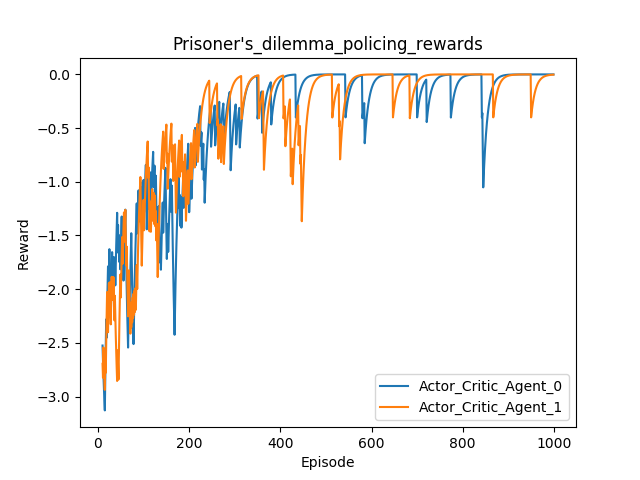
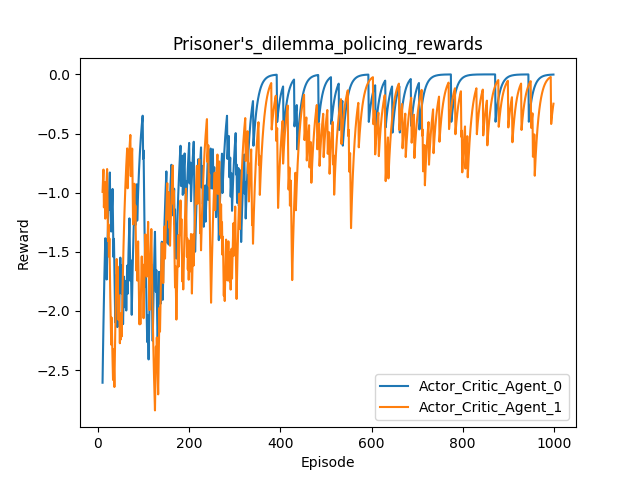
Implemented simple agent

diff --git a/Agents.py b/Agents.py
@@ -1,8 +1,9 @@
 import numpy as np
 import tensorflow as tf
 
-np.random.seed(2)
-tf.set_random_seed(2)
+RANDOM_SEED = 9
+np.random.seed(RANDOM_SEED)
+tf.set_random_seed(RANDOM_SEED)
 
 from enum import Enum, auto
 class Critic_Variant(Enum):
@@ -230,7 +231,6 @@ class Policing_Sub_Agent(Agent):
             # Gradients w.r.t. theta_1
             log_prob_pi = tf.log(policed_agent.get_action_prob_variable()[0,tf.cast(self.a_player,dtype = tf.int32)])
             theta = policed_agent.get_policy_parameters()
-            #theta_1 = tf.concat([tf.reshape(param,[-1]) for param in theta_1],0)
             g_log_prob = [tf.gradients(log_prob_pi,param) for param in theta]
             g_log_prob = tf.concat([tf.reshape(param,[-1]) for param in g_log_prob],0)
 
@@ -246,12 +246,9 @@ class Policing_Sub_Agent(Agent):
         self.sess.run(tf.global_variables_initializer())
 
     def learn(self, s, a_player):
-        #player_action_probs = self.agent_list[0].calc_action_probs(s)
         s = s[np.newaxis,:]
         feed_dict = {self.s: s, self.a_player: a_player, self.policed_agent.actor.s: s}
         self.sess.run([self.train_op], feed_dict)
-        #feed_dict = {self.a_player: a_player}
-        #print(self.sess.run([self.v], feed_dict))
 
     def choose_action(self, s, a):
         print('Player action: ',a)
@@ -259,10 +256,3 @@ class Policing_Sub_Agent(Agent):
         action = np.argmax(probs)
         print('Policing action: ', action)
         return action
-
-    # def calc_action_probs(self, s, a):
-    #     print('Player action: ',a)
-    #     s = s[np.newaxis,:]
-    #     probs = self.sess.run(self.actions_prob, {self.s: s, self.a_player: a})   # get probabilities for all actions
-    #     #probs = np.array([[1,0]]) if a == 0 else np.array([[0,1]])
-    #     return probs
